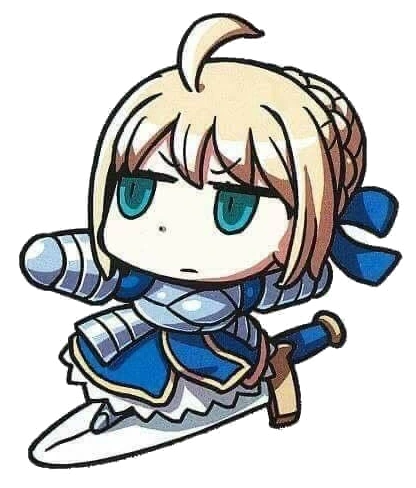
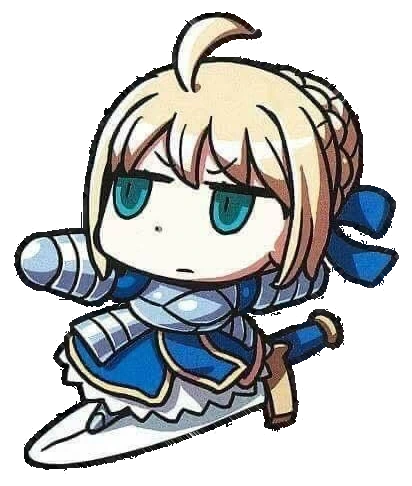
Splash: bersihkan sisa latar putih di celah pita & tepi pedang (CACHE v44)

Changed region(s): [[0.0291, 0.0, 0.9612, 0.9877], [0.3786, 0.463, 0.4078, 0.4938]]

diff --git a/www/sw.js b/www/sw.js
@@ -1,6 +1,6 @@
 /* Exambre Service Worker — cache-first shell, runtime untuk sisanya.
    Naikkan versi CACHE saat mengubah file inti agar client lama ter-refresh. */
-const CACHE='exambre-v43';
+const CACHE='exambre-v44';
 const CORE=[
   './index.html','./manifest.json','./assets/app.css',
   './assets/js/01-state.js','./assets/js/02-gamify-data.js','./assets/js/03-notes.js',
